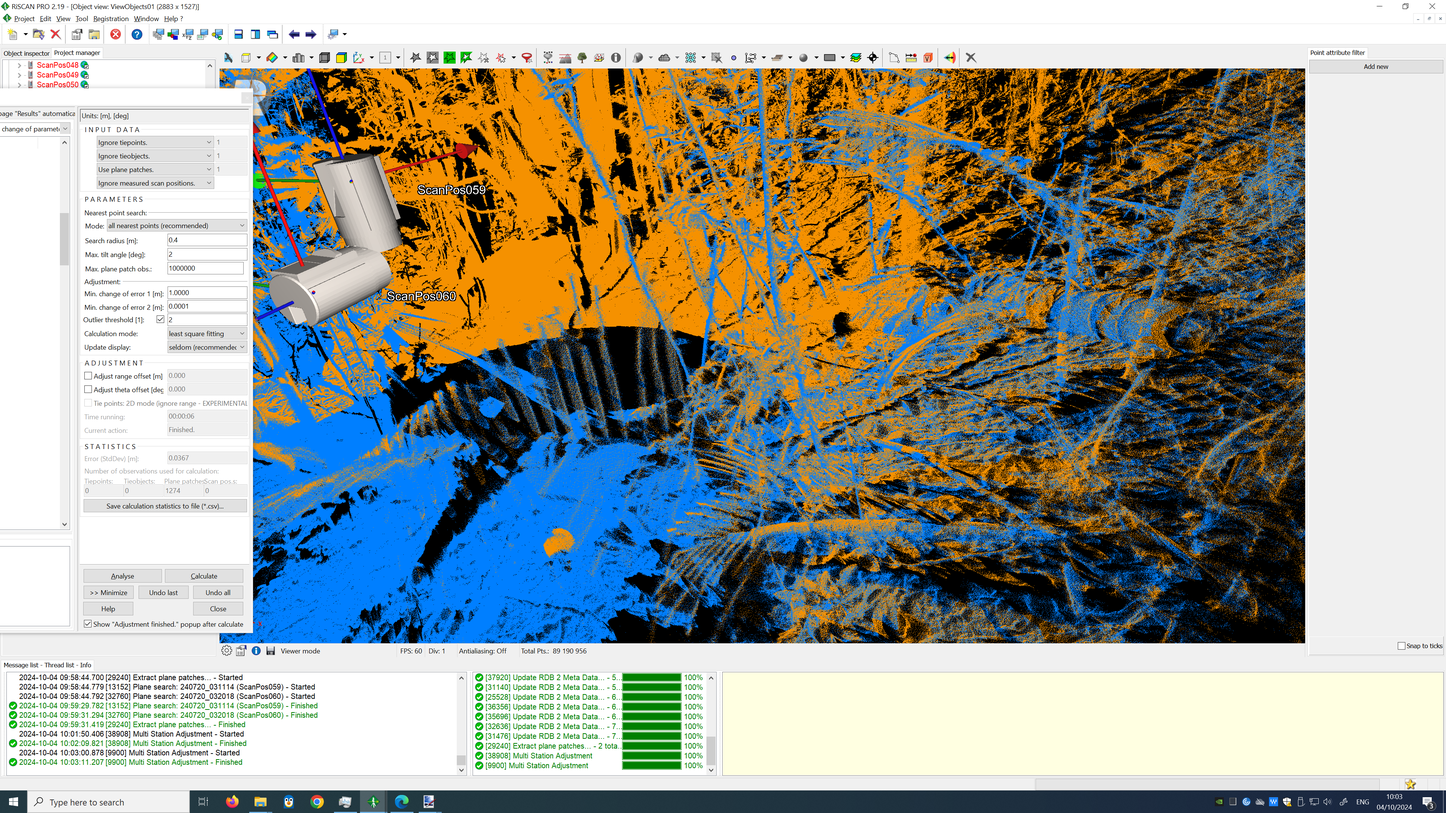
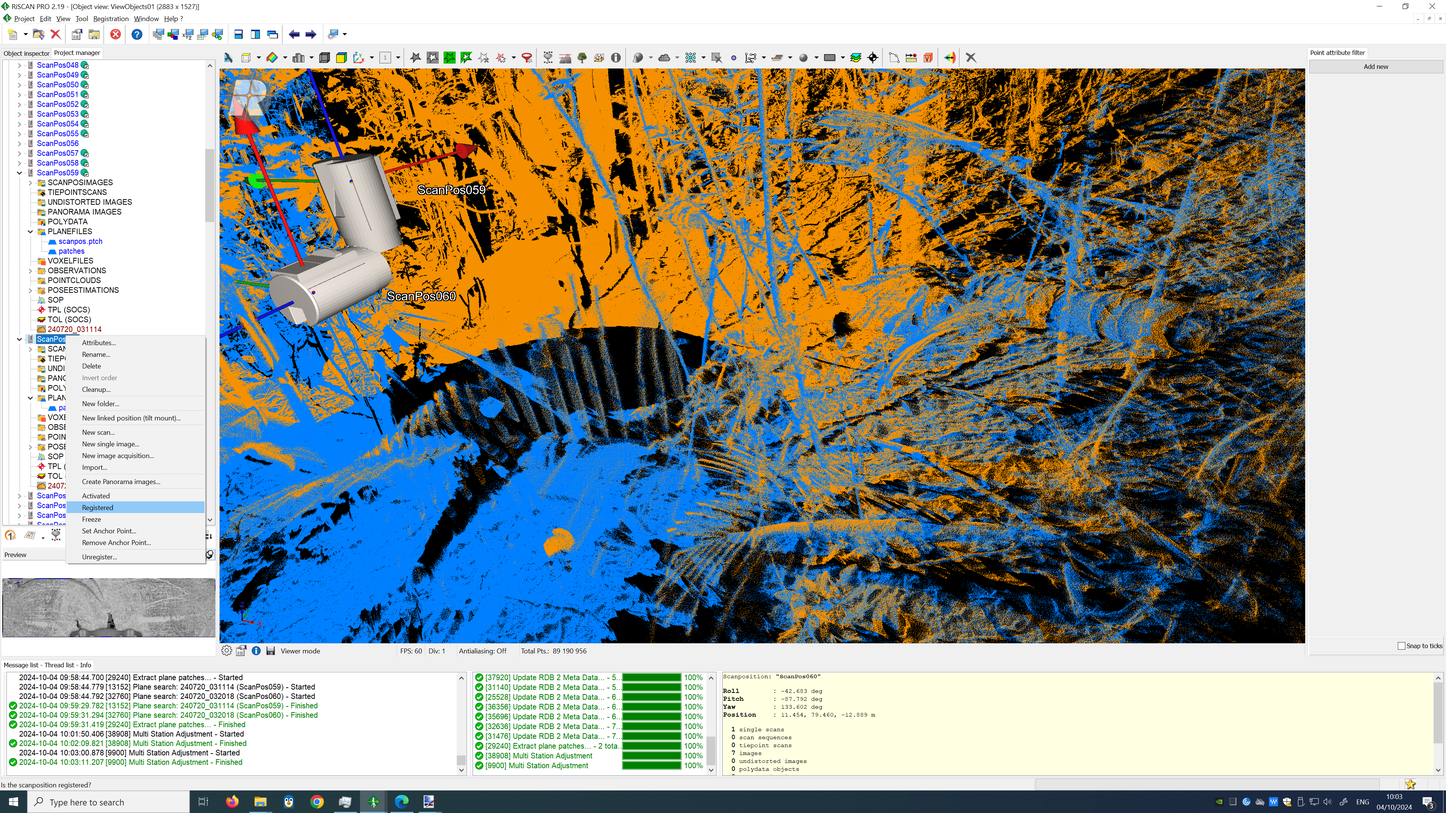
update

Changed region(s): [[0.0, 0.062, 0.1875, 0.8065], [0.9688, 0.8375, 1.0, 0.9306], [0.5, 0.8685, 0.5312, 0.9306]]

diff --git a/3.automatic_registration2.md b/3.automatic_registration2.md
@@ -56,13 +56,22 @@ After the Automated Registration, you will notice that a few scans are not regis
 <br>
 These are mostly tilted scans (they are harder to automatically register as they can be challenging for the IMU).
 We fix those first using the following steps. Here we demonstrate it for up-tilt pair ScanPos59 (up, registered) and ScanPos60 (tilt, not registered):
-<br>
-<br>![alt text](img/fix2.png)
+<br><br>![alt text](img/fix2.png)
 1. *Open the SOP of the registered scan and write down the translation coordinates (the 4th column, one decimal precision is ok)*
 <br>![alt text](img/fix3.png)
-2. *Open the SOP of the unregistered scan, and change the 3 translation coordinates to the ones from the registered scan*
-![alt text](img/fix4.png)
-3. *Reflector Estimation Settings → Ignore*
-4. *Integrate*
-4. *Check the boxes "import images" and "convert all scans on import"*
+2. *Open the SOP of the unregistered scan, and change the 3 translation coordinates to the ones from the registered scan. You will see that the scans already quite good now.*
+<br>![alt text](img/fix4.png)
+<br>![alt text](img/fix5.png)
+3. *Extract plane patches for both scans now. Select them, right click → Extract plane patches*
+<br>![alt text](img/fix6.png)
+<br>![alt text](img/fix7.png)
+4. *Use Multi Station Adjustment (registration → Multi Station Adjustment → Start adjustment) on the 2 scans. Only have those 2 scans activated, and lock the position and orientation of the up scan. We recommend to use the settings in the image below and start with a search radius of 1m. Click calculate to execute the first iteration of MSA*
+<br>![alt text](img/fix8.png)
+5. *After the first iteration the registration should have improved. Now change the search radius to approximately 2 x error (stdDev). In our example, this is roughly 0.4*
+<br>![alt text](img/fix9.png)
+<br>![alt text](img/fix10.png)
+6. *When the stdDev is below 0.1m, we consider this good enough for now. Generally this will already be the case after the second iteration of MSA*
+7. *Rclick on the ScanPos and mark it as registered. A green circle will now appear next to the ScanPos*
+<br>![alt text](img/fix11.png)
+
 <br><br>
